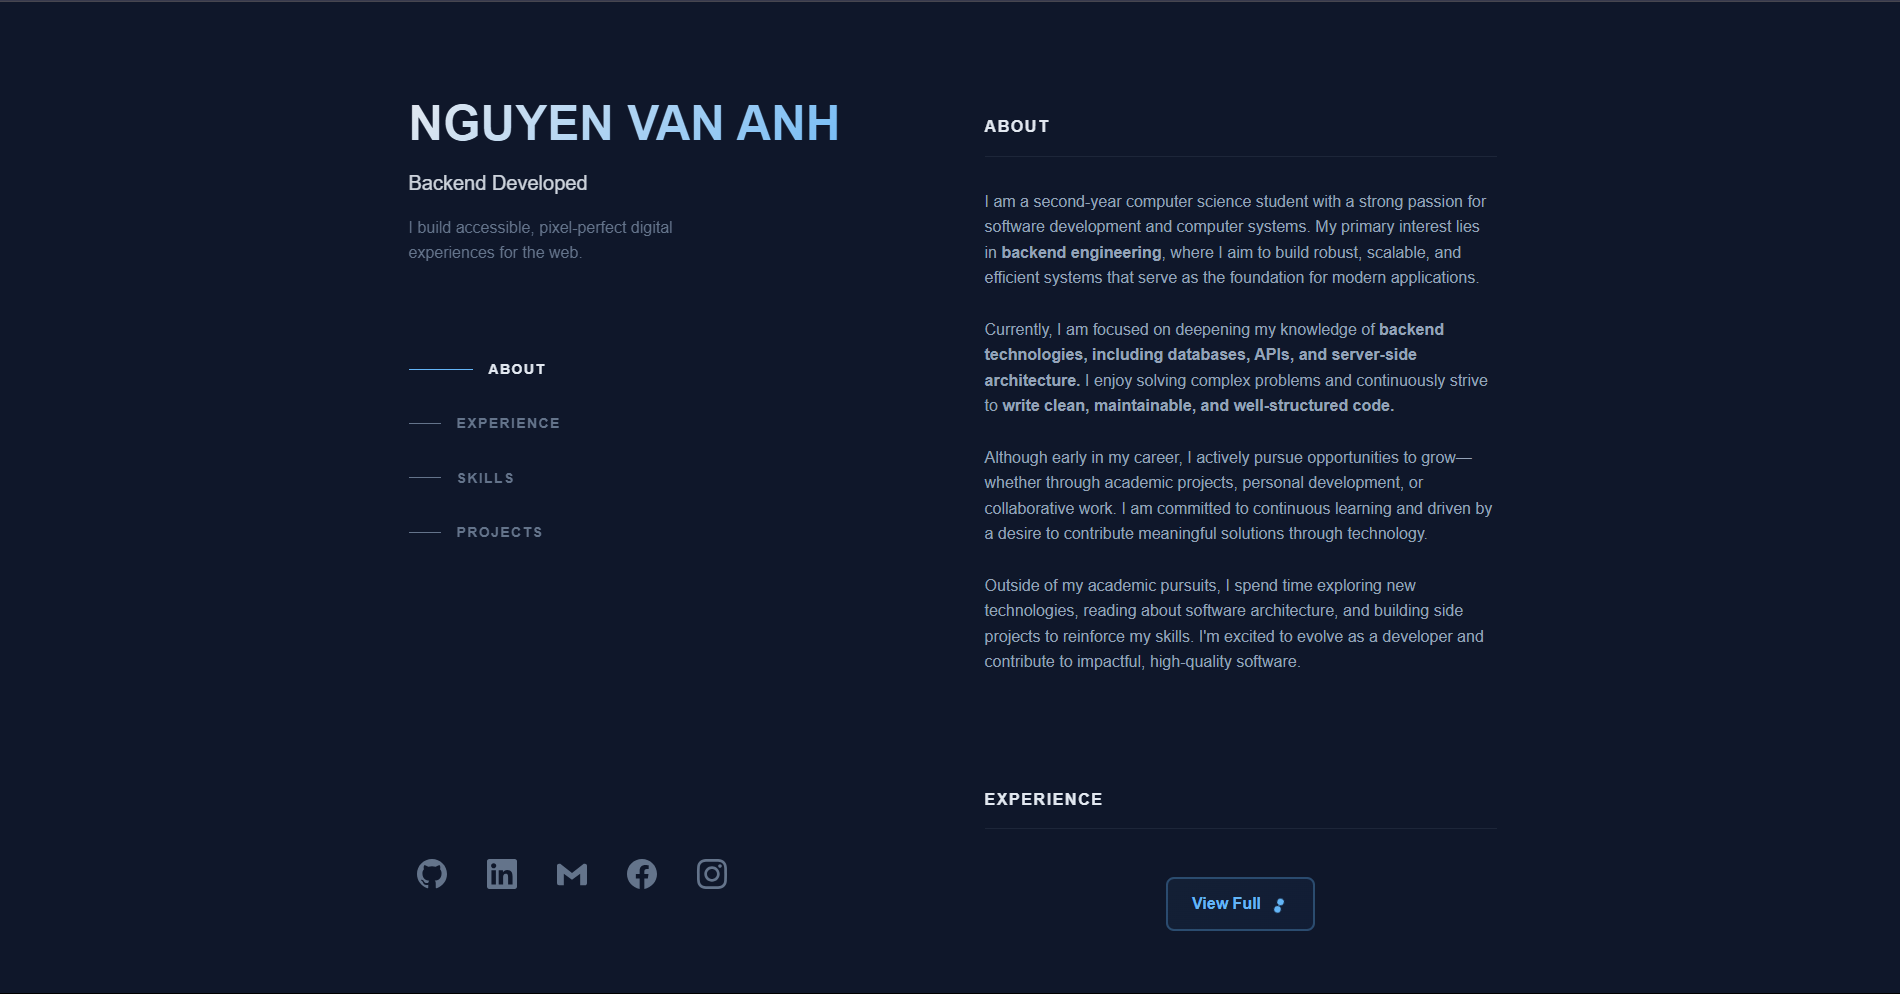
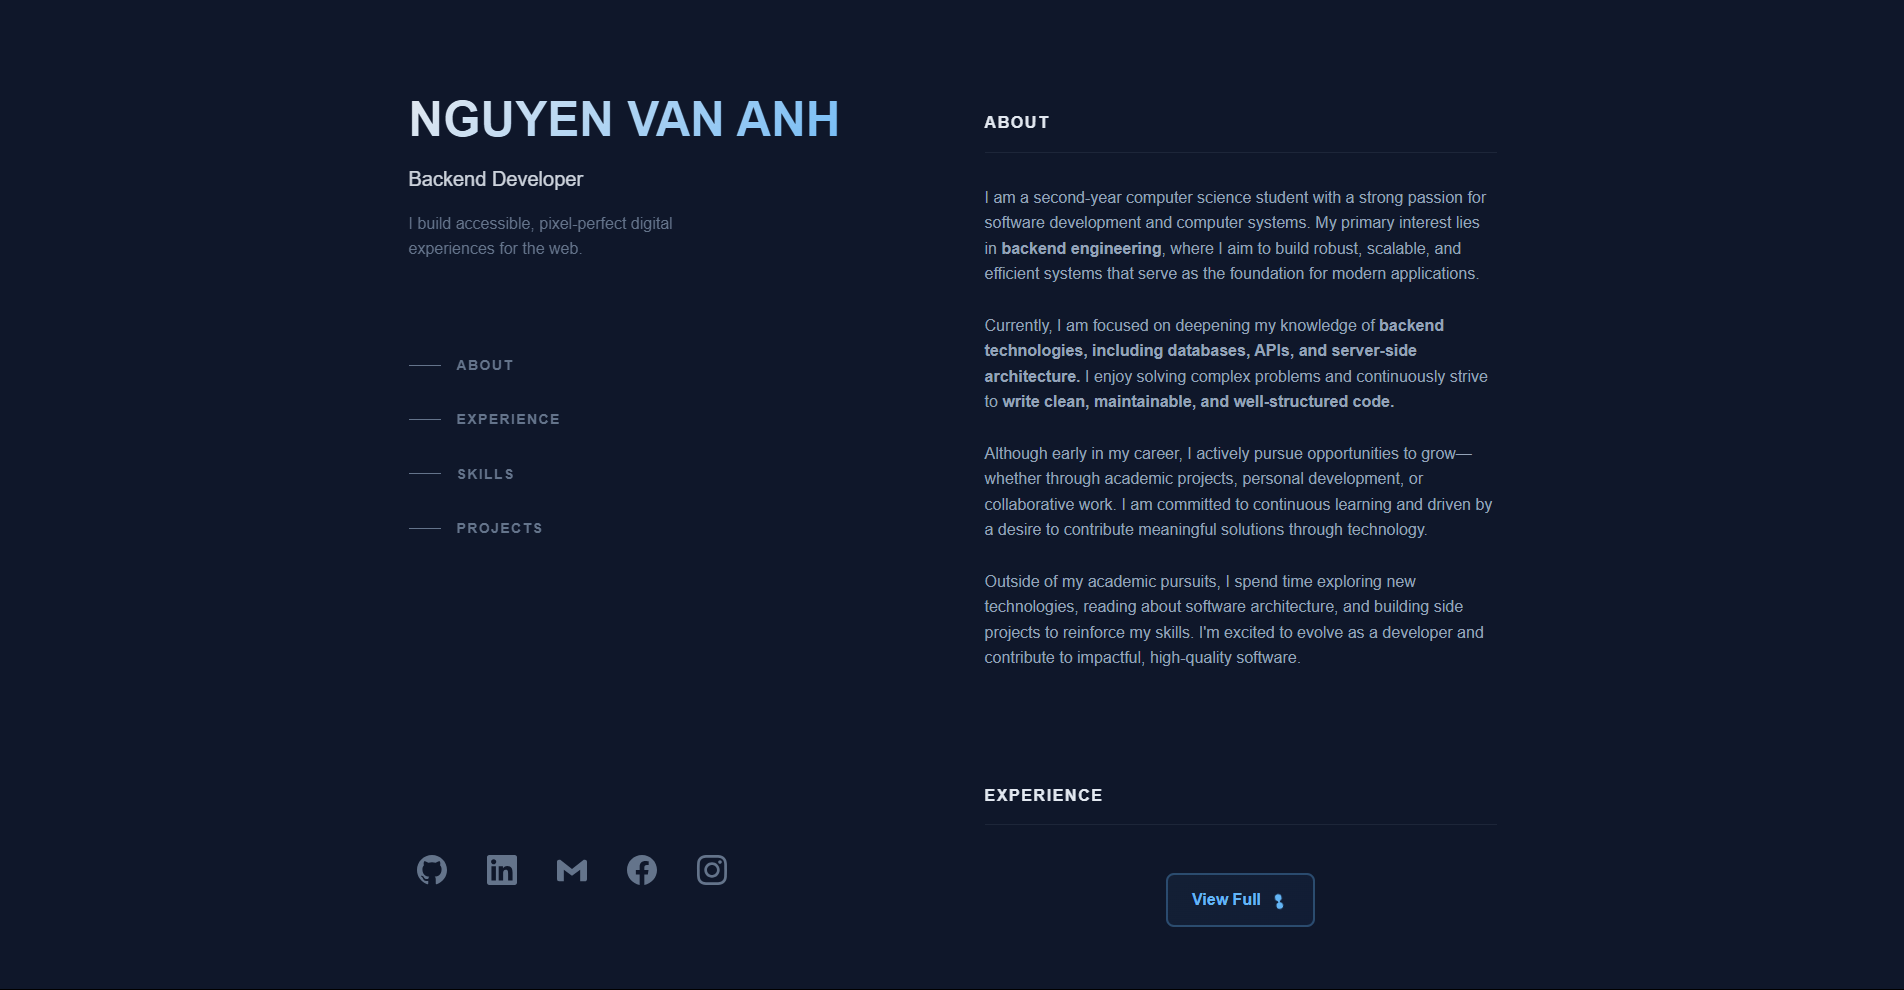
Edit Readme.md

diff --git a/index.html b/index.html
@@ -15,7 +15,7 @@
         <div class="left-panel">
             <div class="header">
                 <h1>NGUYEN VAN ANH</h1>
-                <h2>Backend Developed</h2>
+                <h2>Backend Developer</h2>
                 <p>I build accessible, pixel-perfect digital experiences for the web.</p>
             </div>
 

diff --git a/README.md b/README.md
@@ -22,15 +22,15 @@
 ## 📂 Cấu Trúc Thư Mục
 
 portfolio/
-├── index.html          # Main portfolio page
-├── projects.html       # Full projects archive
-├── assets/
-│   ├── style.css       # Main stylesheet
-│   ├── projects.css    # Projects page styles
-│   ├── responsive.css  # Responsive styles
-│   └── main.js         # JavaScript functionality
-├── README.md           # This file
-└── resume.pdf          # Downloadable resume
+   index.html     
+   projects.html      
+   assets/
+      style.css       
+      projects.css   
+      responsive.css  
+      main.js        
+   README.md         
+   resume.pdf        
 
 
 ## 🚀 Cách Chạy Dự Án
@@ -47,6 +47,6 @@ portfolio/
 [Xem portfolio trực tuyến]()
 
 ## 📬 Liên Hệ
-Email: anhnguyenvan280105@gmail.com
-GitHub: [VanAnhstudents](https://github.com/VanAnhstudents)
-Facebook: [Anh Nguyễn Văn](https://www.facebook.com/anhnguyenvan280105)
+- Email: anhnguyenvan280105@gmail.com
+- GitHub: [VanAnhstudents](https://github.com/VanAnhstudents)
+- Facebook: [Anh Nguyễn Văn](https://www.facebook.com/anhnguyenvan280105)
